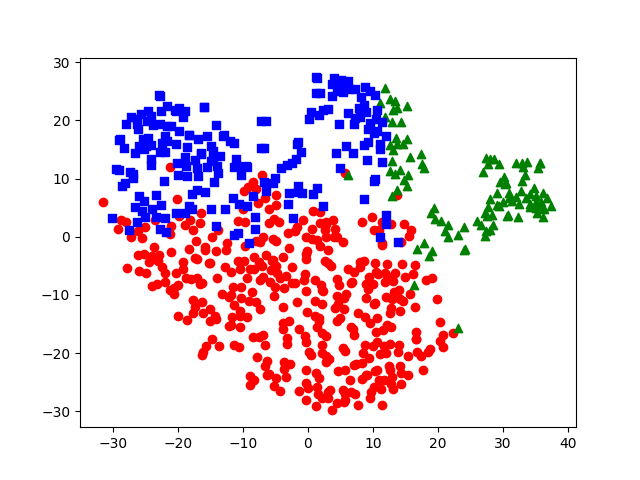
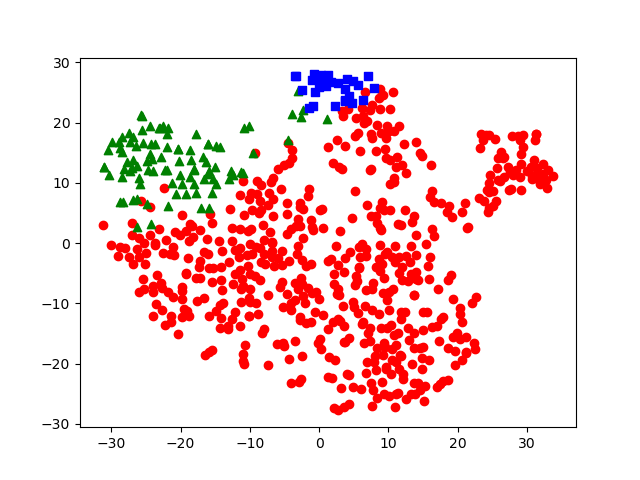
Updated BIRCH and SPECT methods

diff --git a/clustering.py b/clustering.py
@@ -47,15 +47,17 @@ def tsneG(X):
     plt.close()
 
 #Optimization implementation that test inverted matrix
-def OptimizeInverse(pred):
+def OptimizeInverse(pred, n1, n2):
     a = accuracy_score(pred, labels)
     b = accuracy_score(pred, labelsi)
     if a<b:
-        pred[pred == 0] = 12
-        pred[pred == 1] = 0
-        pred[pred == 12] = 1
+        pred[pred == n1] = 12
+        pred[pred == n2] = n1
+        pred[pred == 12] = n2
+        #b = accuracy_score(pred, labels)
         return pred,b
     else:
+        #a = accuracy_score(pred, labels)
         return pred,a
 
 # Cure implementation
@@ -76,7 +78,7 @@ def ExpectationMMaximization(Mat, n):
                                            random_state=25)
 
     pred = exp_instance.fit_predict(Mat)
-    pred= OptimizeInverse(pred)
+    pred= OptimizeInverse(pred,0,1)
     print(pred[0])
     print("ACC: " + str((pred[1])))
     acc["EXP" + str(n)] = str((pred[1]))
@@ -123,11 +125,12 @@ def spect(input_data, n):
     spec_instance = SpectralClustering(n_clusters=n,random_state=3107,affinity='nearest_neighbors',n_neighbors=20,n_components=16)
     spec_instance.fit(input_data)
     pred = spec_instance.labels_
-    print(pred)
+    pred = OptimizeInverse(pred,0,1)
+    print (pred[0])
+    print("ACC: " + str((pred[1])))
+    acc["SPECT" + str(n)] = str((pred[1]))
+    tsnePlot(pred[0], n, input_data, 'SPECT')
 
-    print("ACC: " + str(accuracy_score(pred, labels)))
-    acc["SPECT" + str(n)] = str(accuracy_score(pred, labels))
-    tsnePlot(pred, n, input_data, 'SPECT')
 
 # birch implementation
 def birch(input_data, n, limite, branching):
@@ -137,15 +140,16 @@ def birch(input_data, n, limite, branching):
     feat_instance = Birch(n_clusters=n,threshold=limite,branching_factor=branching)
     feat_instance.fit(input_data)
     pred= feat_instance.labels_
-    print(pred)
-    # currentAcc = accuracy_score(pred, labels)
-    # if n == 2 and birchMaxAcc<currentAcc:
-    #     birchThreshold=limite
-    #     birchBranching = branching
-    #     birchMaxAcc=currentAcc
-    print("ACC: " + str(accuracy_score(pred, labels)))
-    acc["BIRCH" + str(n)] = str(accuracy_score(pred, labels))
-    tsnePlot(pred, n, input_data, 'BIRCH ')
+    # # currentAcc = accuracy_score(pred, labels)
+    # # if n == 2 and birchMaxAcc<currentAcc:
+    # #     birchThreshold=limite
+    # #     birchBranching = branching
+    # #     birchMaxAcc=currentAcc
+    pred = OptimizeInverse(pred, 0, 1)
+    print(pred[0])
+    print("ACC: " + str((pred[1])))
+    acc["BIRCH" + str(n)] = str((pred[1]))
+    tsnePlot(pred[0], n, input_data, 'BIRCH')
 
 
 # Generate dendoram plot
@@ -271,7 +275,7 @@ if __name__ == '__main__':
     print("EXPECTATION MAXIMIZATION  TEST:\n")
     for i in range(2, 11):
         ExpectationMMaximization(matrix, i)
-
+    
     # Start Spectral test
     print("SPECT  TEST:\n")
     for i in range(2, 11):
